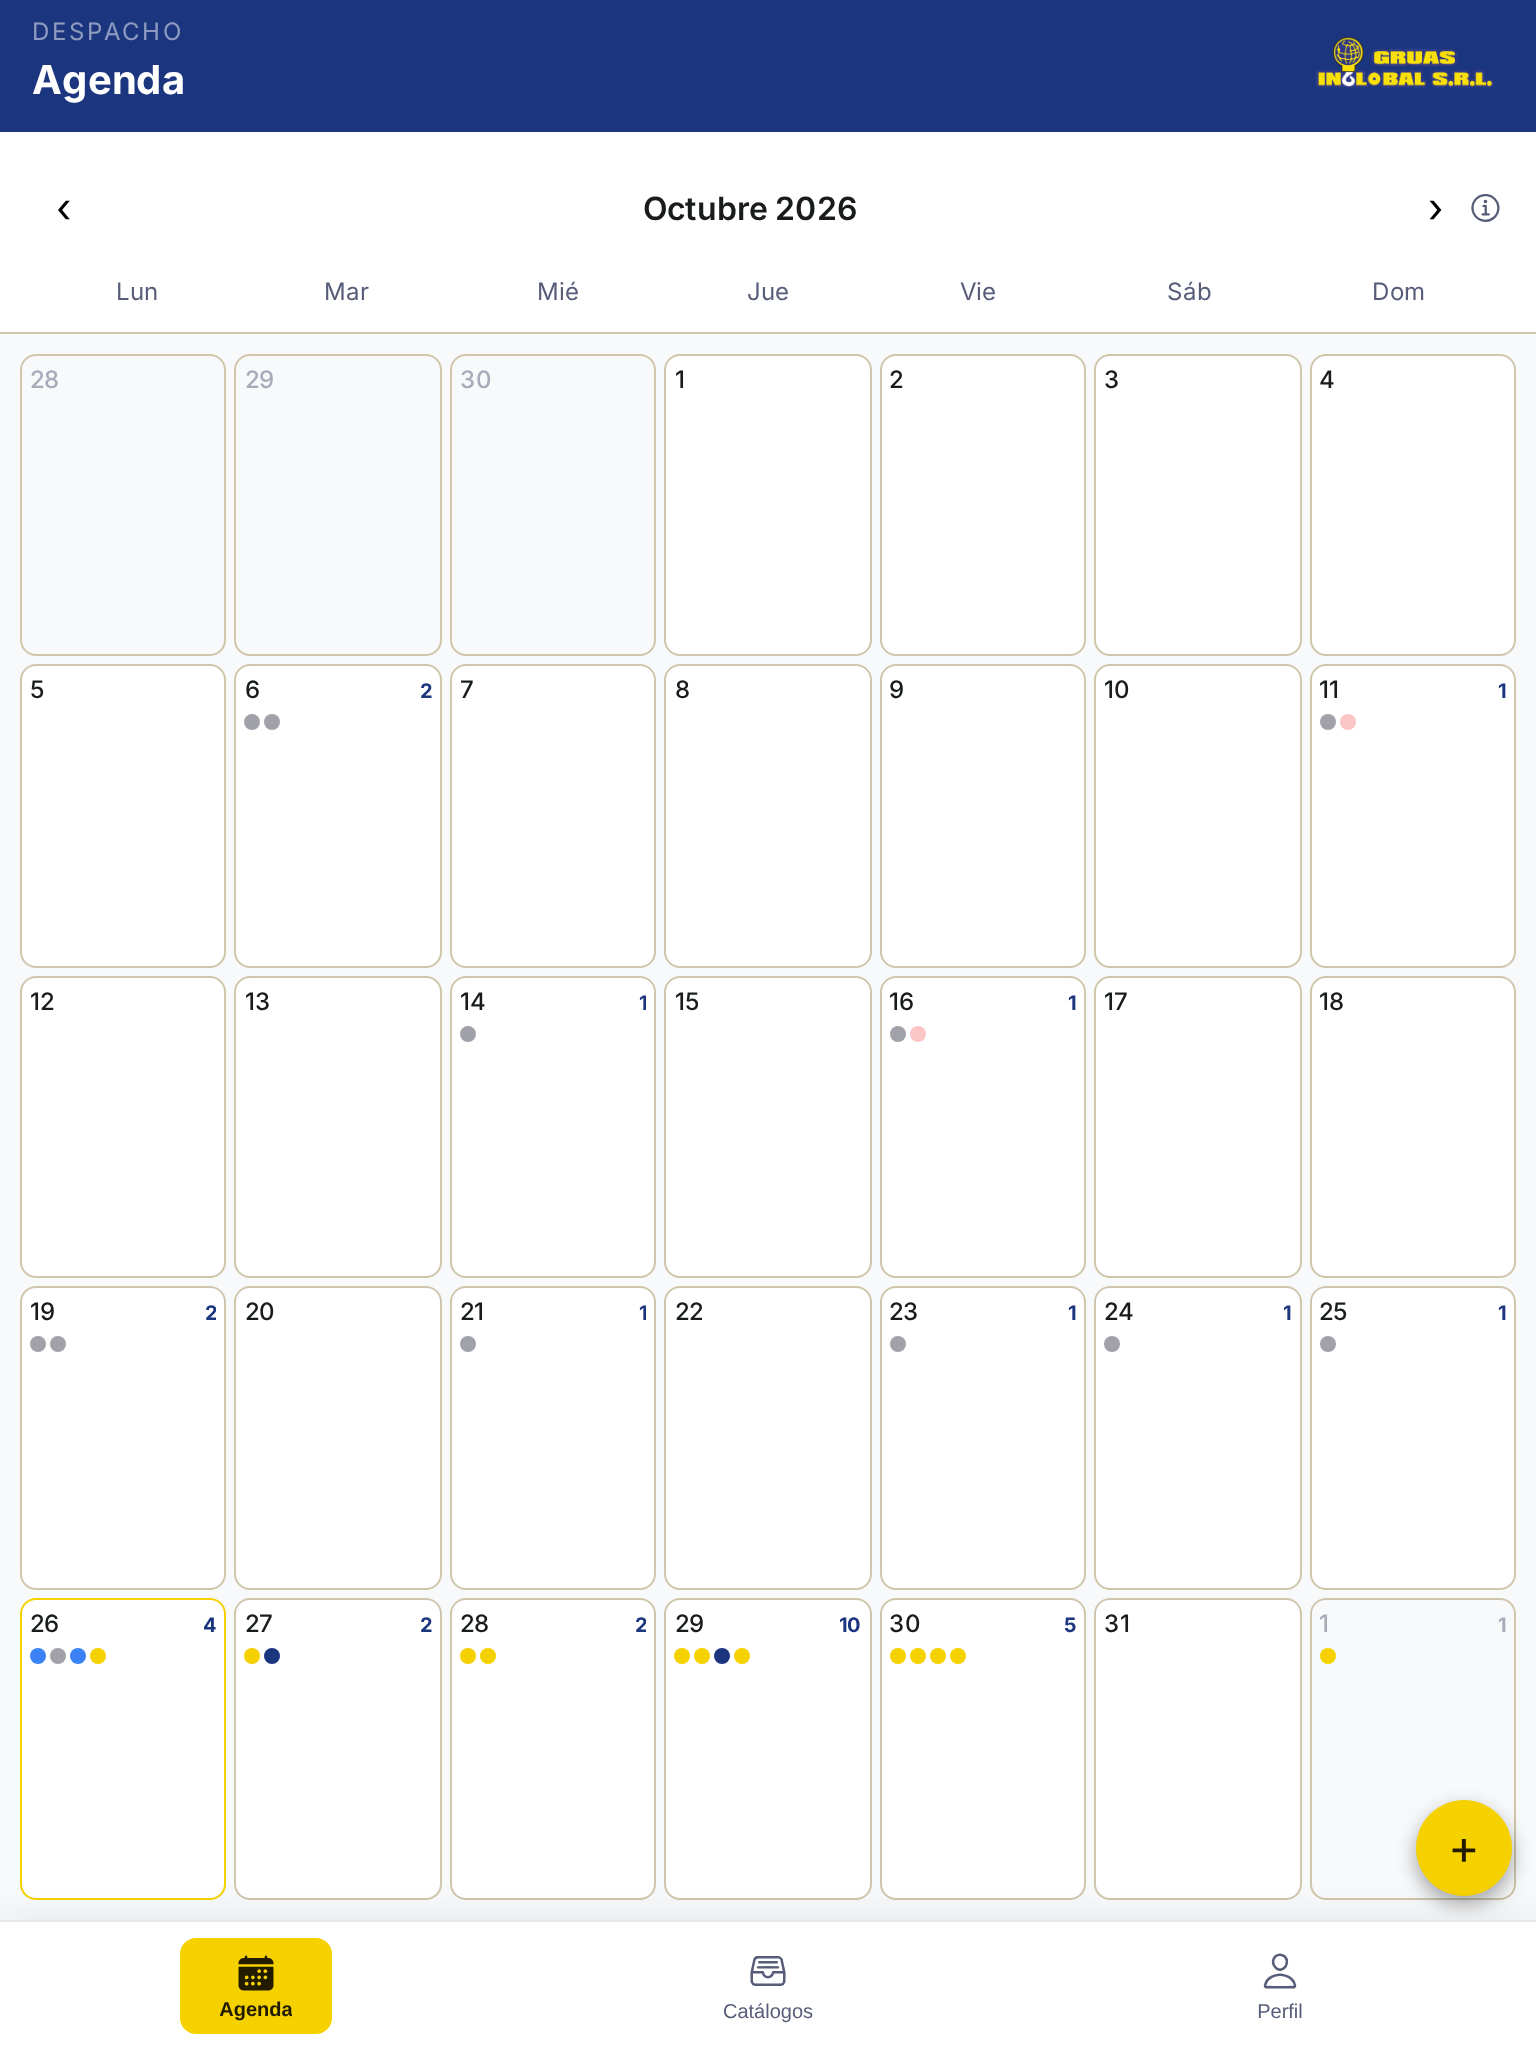
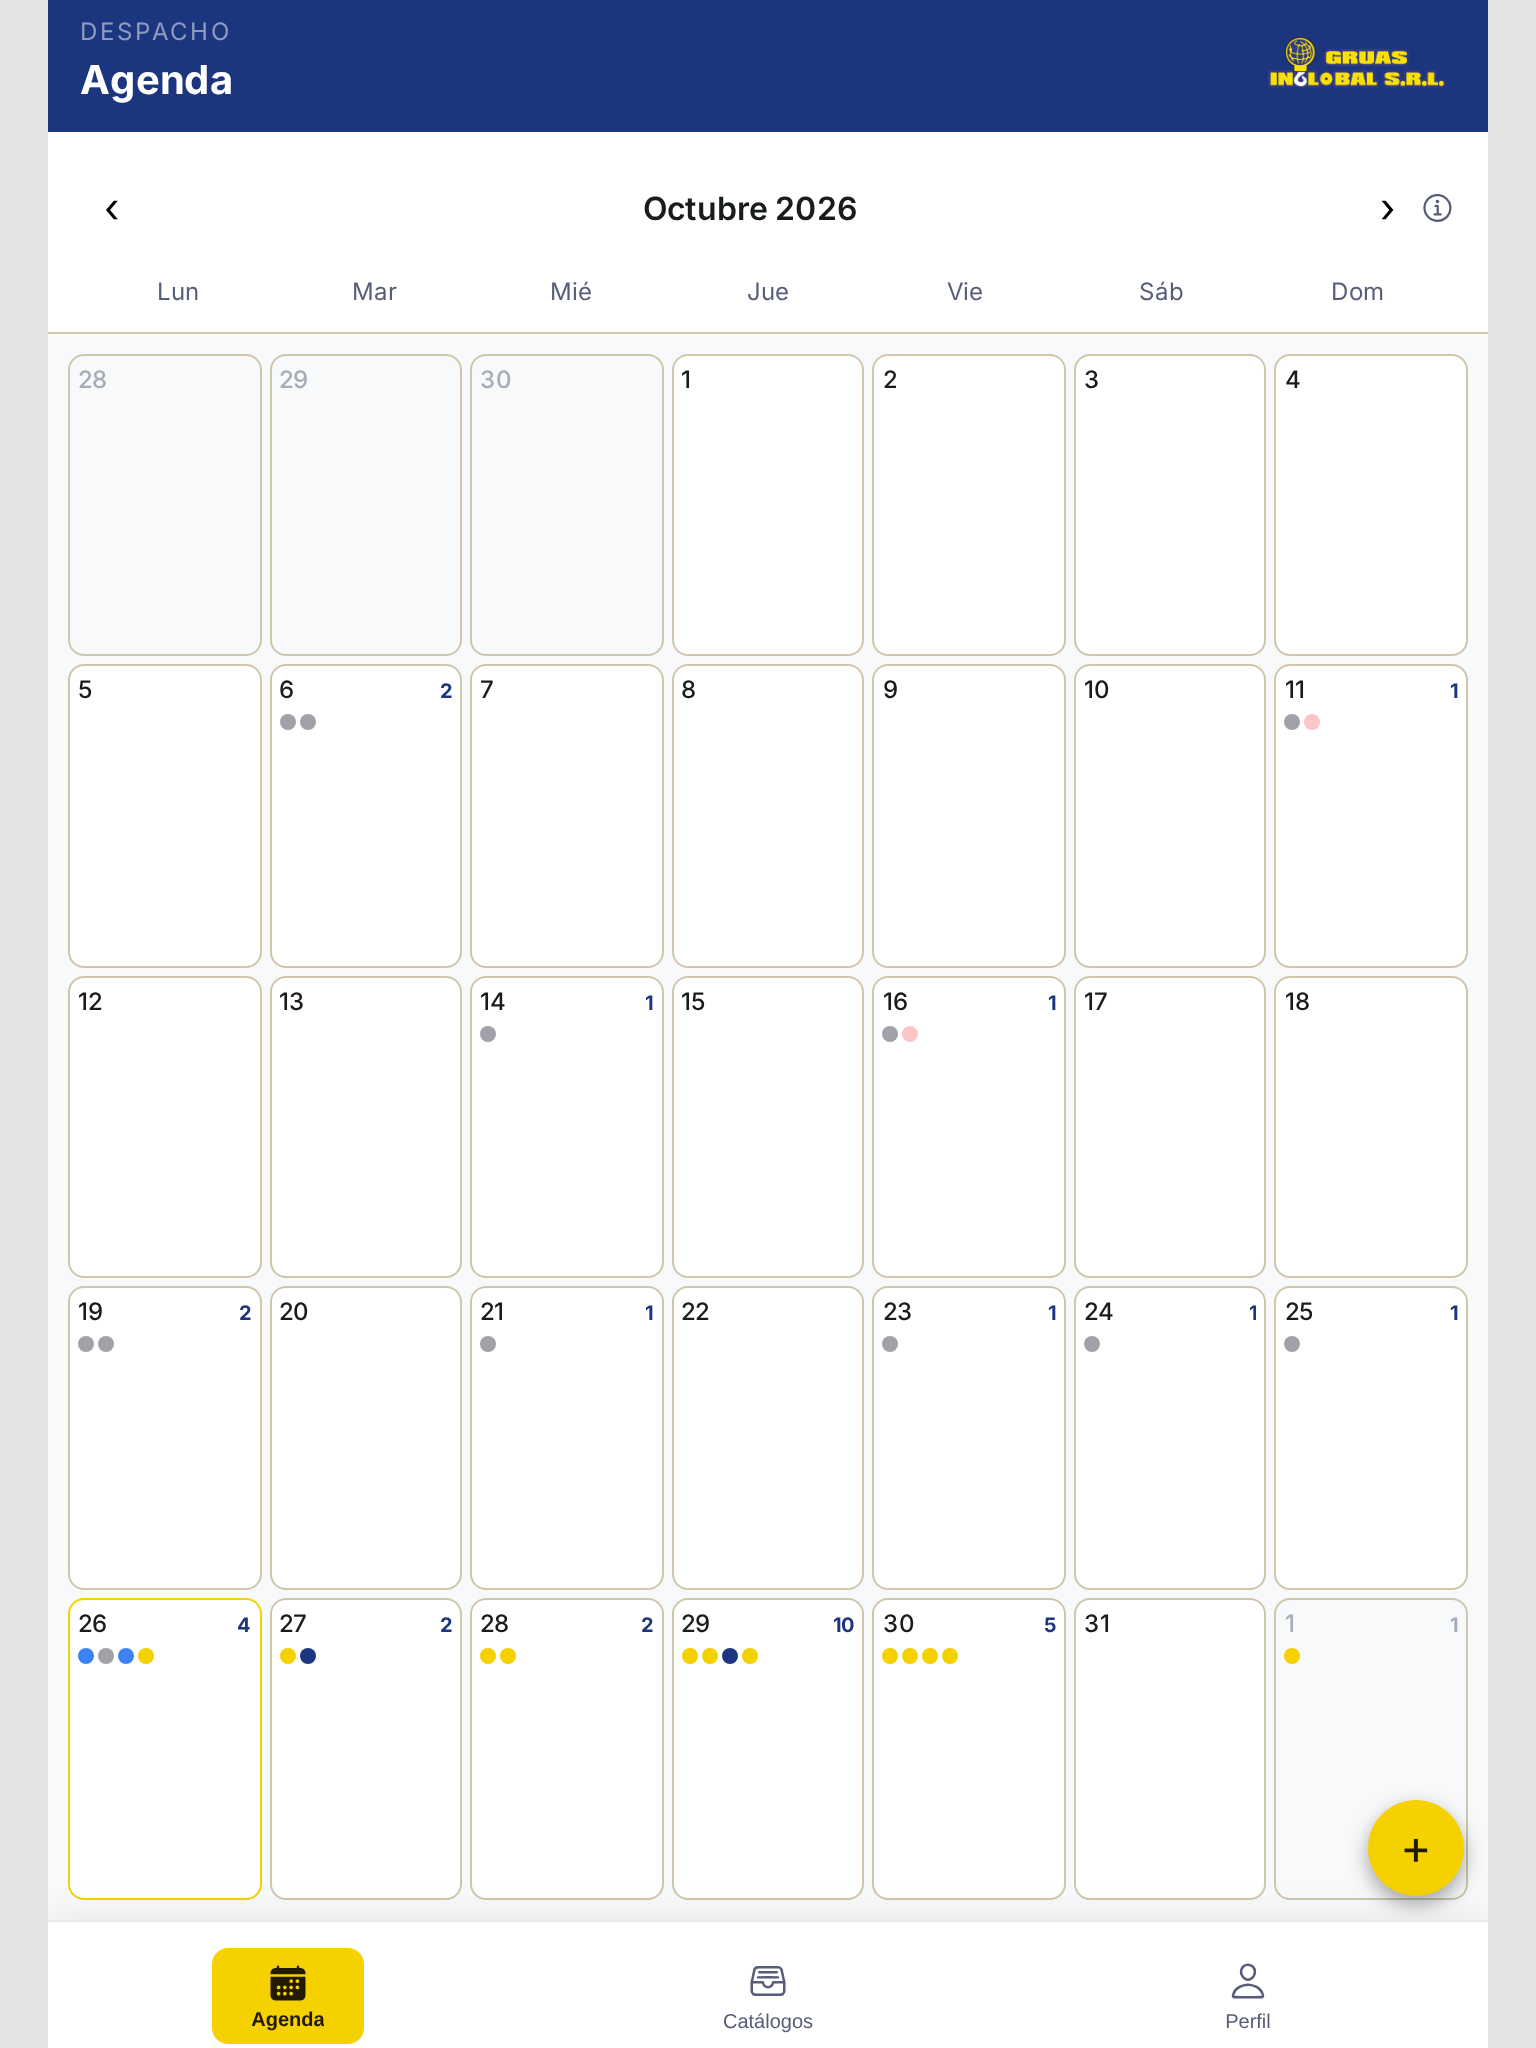
feat(ui): columna centrada de hasta 720 px en tablets

diff --git a/src/app/_layout.tsx b/src/app/_layout.tsx
@@ -136,31 +136,37 @@ function RootLayoutNav() {
       <SafeAreaProvider>
         <StatusBar style={cargando ? 'light' : 'dark'} />
       <View style={{ flex: 1 }}>
-      {!cargando && (
-        session && mustChangePassword ? (
-          <CenteredMessage>
-            <Text className="text-center font-semibold text-igb-on-surface text-lg mb-2">
-              Tenés que cambiar tu contraseña
-            </Text>
-            <Text className="text-center text-igb-secondary">
-              Ingresá al panel web ({PANEL_WEB}) para cambiar tu contraseña temporal antes de usar la app.
-            </Text>
-            <Pressable onPress={() => signOut()} className="mt-6 py-2 px-4">
-              <Text className="text-igb-navy font-semibold">Cerrar sesión</Text>
-            </Pressable>
-          </CenteredMessage>
-        ) : (
-          <Stack screenOptions={{ headerShown: false, contentStyle: { backgroundColor: '#f8f9fa' } }}>
-            <Stack.Screen name="index" />
-            <Stack.Protected guard={!!session}>
-              <Stack.Screen name="(tabs)" />
-            </Stack.Protected>
-            <Stack.Protected guard={!session}>
-              <Stack.Screen name="(auth)" />
-            </Stack.Protected>
-          </Stack>
-        )
-      )}
+      {/* Columna centrada de hasta 720 px: en teléfonos ocupa todo el ancho (no cambia nada); en tablets la app
+          no se estira a 1000+ px sino que queda como una columna de teléfono grande sobre un fondo neutro. */}
+      <View style={{ flex: 1, alignItems: 'center', backgroundColor: '#e1e3e4' }}>
+        <View style={{ flex: 1, width: '100%', maxWidth: 720, backgroundColor: '#f8f9fa', overflow: 'hidden' }}>
+        {!cargando && (
+          session && mustChangePassword ? (
+            <CenteredMessage>
+              <Text className="text-center font-semibold text-igb-on-surface text-lg mb-2">
+                Tenés que cambiar tu contraseña
+              </Text>
+              <Text className="text-center text-igb-secondary">
+                Ingresá al panel web ({PANEL_WEB}) para cambiar tu contraseña temporal antes de usar la app.
+              </Text>
+              <Pressable onPress={() => signOut()} className="mt-6 py-2 px-4">
+                <Text className="text-igb-navy font-semibold">Cerrar sesión</Text>
+              </Pressable>
+            </CenteredMessage>
+          ) : (
+            <Stack screenOptions={{ headerShown: false, contentStyle: { backgroundColor: '#f8f9fa' } }}>
+              <Stack.Screen name="index" />
+              <Stack.Protected guard={!!session}>
+                <Stack.Screen name="(tabs)" />
+              </Stack.Protected>
+              <Stack.Protected guard={!session}>
+                <Stack.Screen name="(auth)" />
+              </Stack.Protected>
+            </Stack>
+          )
+        )}
+        </View>
+      </View>
       {!loadingUnmounted && (
         <Animated.View
           pointerEvents={cargando ? 'auto' : 'none'}

diff --git a/docs/deployment.md b/docs/deployment.md
@@ -96,3 +96,5 @@ Avisos (2026-10-26): el ícono chico de Android (`assets/images/notification-ico
 Informe completo en `inglobal-site/.ai/context/AUDITORIA_2026-10-26.md`; capturas de la app en 5 tamaños (320, 360, 390, 430 y 768 px, web exportada) en `screenshots/auditoria/`. Pendientes de la app: barra de pestañas sin margen inferior en teléfonos sin barra de gestos, teclado en Android edge-to-edge, día y contador pisados a 320 px, botón "+" tapando contenido, nombres de catálogo cortados y tope de escalado de fuente.
 
 Actualización 2026-10-26 (correcciones de la auditoría): barra de pestañas con margen inferior mínimo de 8 (`abajoBarra`), tope de escalado de fuente (`maxFontSizeMultiplier` 1,4 en `Text`, 1,15 en las pestañas), `KeyboardAvoidingView` con `behavior="padding"` en las dos plataformas (Android es edge-to-edge), celda del mes con menos padding y contador de 10 px, fila de catálogo con el nombre en hasta 2 líneas y el estado debajo, botón flotante más chico y con 104 px de aire al final de las listas. Verificado en la web exportada a 320, 360, 390, 430 y 768 px (sin desborde, `screenshots/auditoria/`). **Sin verificar:** el teclado en Android real (cambio de `behavior`) y las safe areas reales.
+
+Tablets (2026-10-26): el layout raíz (`src/app/_layout.tsx`) centra la app en una columna de hasta 720 px sobre fondo neutro; en teléfonos ocupa todo el ancho. Verificado en la web exportada a 768 px y en los otros cuatro tamaños (sin desborde).
